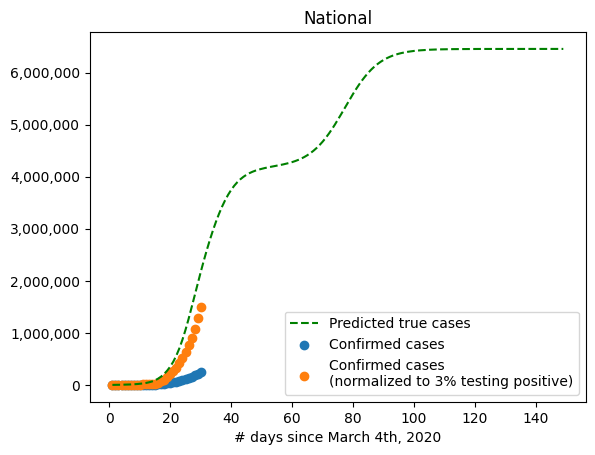
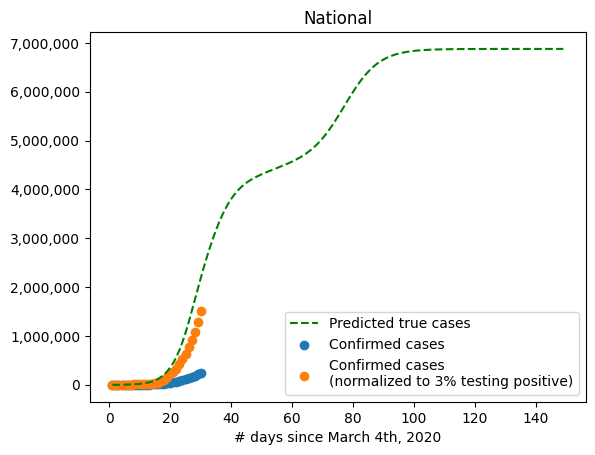
Add minor adjustment to WA for better looking results

diff --git a/covidtracking.py b/covidtracking.py
@@ -24,6 +24,9 @@ for state_name in all_states:
     dates_as_int_array_normalized = dates_as_int_array - dates_as_int_array[0]
     cases = state["positive"].to_numpy()
     normalized_cases = state["positive"] * ((state["positive"] / state["totalTestResults"]) / ASSUMED_RATIO)
+    
+    if state_name == "WA":
+        normalized_cases = pd.concat([state["positive"][:5], normalized_cases[5:]])
 
     try:
         popt, pcov = curve_fit(model, dates_as_int_array_normalized, normalized_cases)
